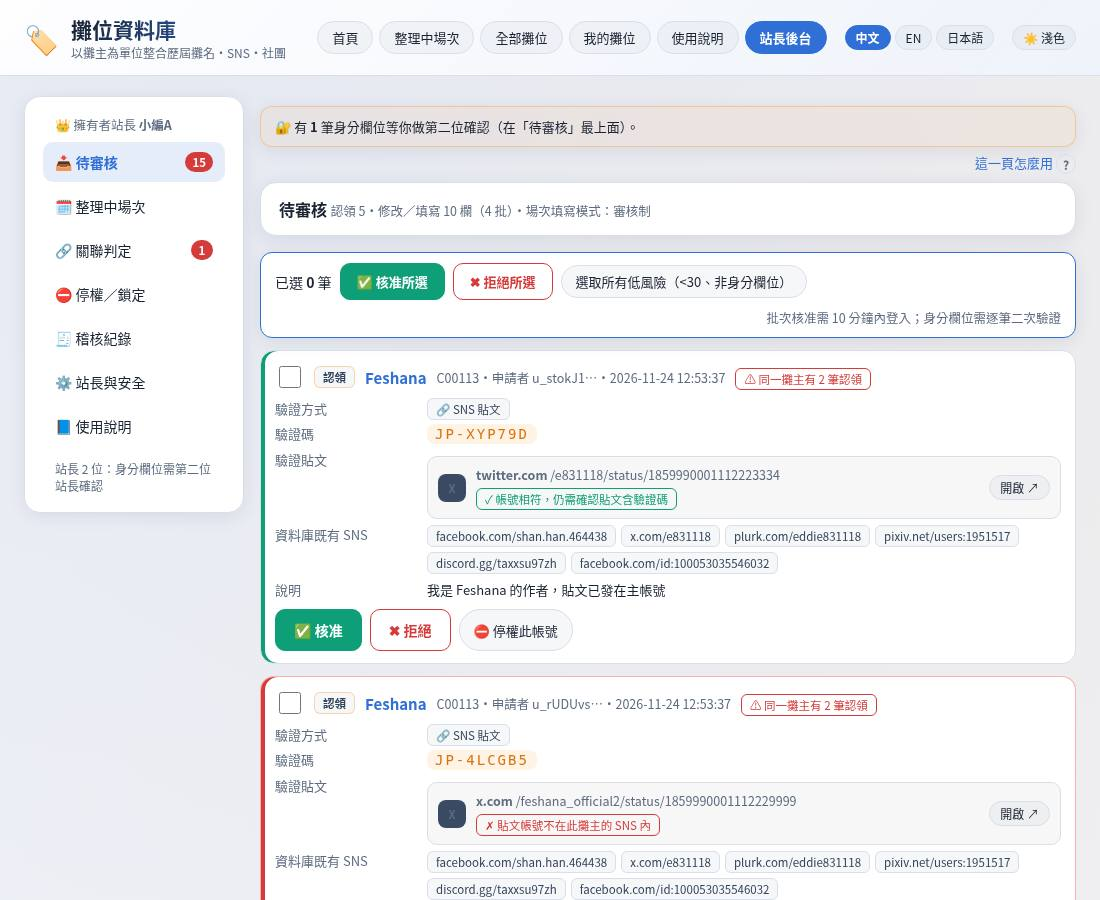
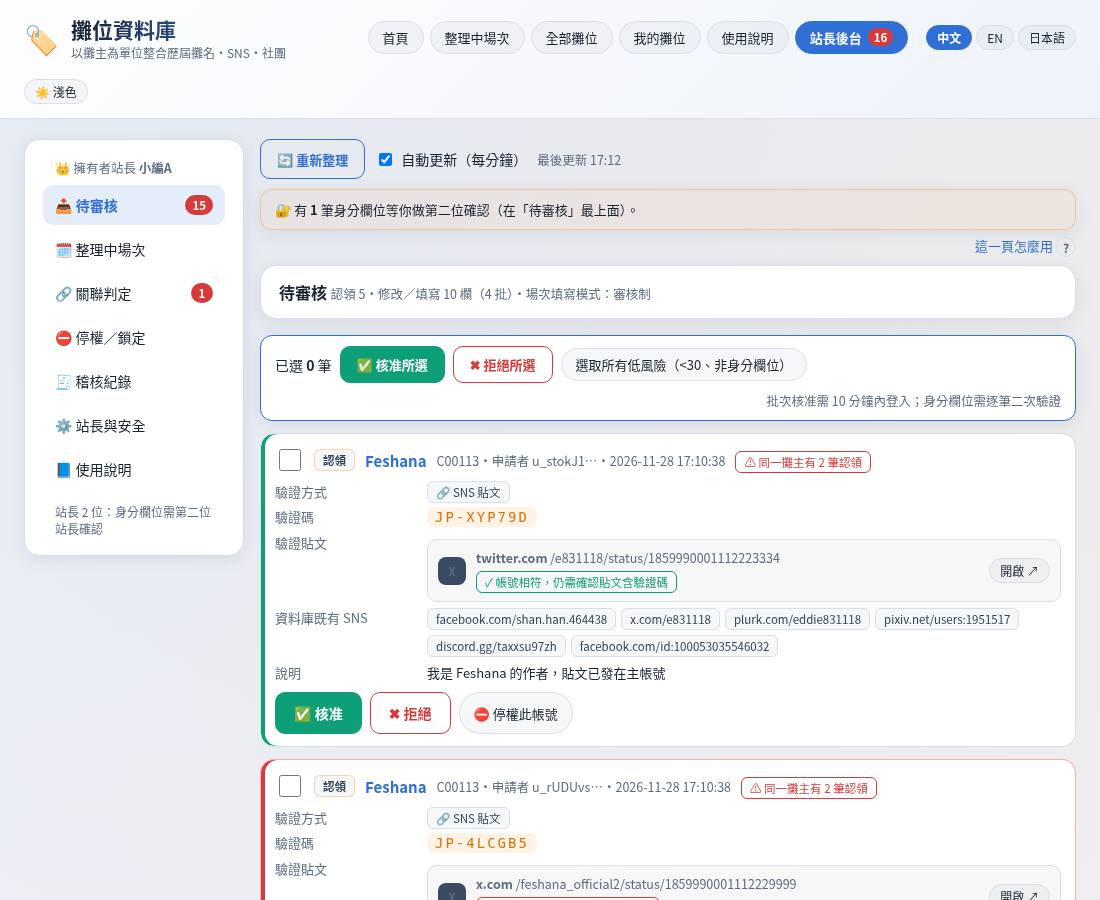
p7: 更新使用說明（待審核數字／重新整理／自動更新、隱藏舊攤名、作品類型與年齡分級可複選）；後端仍為 p6 時後台與編輯可向下相容

diff --git a/site/assets/help.js b/site/assets/help.js
@@ -6,9 +6,10 @@ window.HELP = {
       { id: 'search', t: '找到你的攤位', img: 'zh-search', s: ['打開首頁。', '在上方搜尋框輸入攤名、筆名或 SNS 帳號。', '點結果卡片，就會打開攤主頁。'] },
       { id: 'claim', t: '認領攤位：拿驗證碼、選方式', img: 'zh-claim', s: ['按右上「我的攤位」，用 Google 登入。', '回到你的攤主頁，按「這是我 → 認領」。', '畫面會出現你的驗證碼（例：JP-AB12CD），可以按「複製」。', '選一種方式：① SNS 貼文：用攤位資料上的 SNS 帳號發文附上驗證碼，再貼上「那則貼文」的網址。② 私訊加帕利天藍怪預警中心的 FB 粉專或 LINE 官方帳號，傳驗證碼。③ 動漫同人展資訊組 Discord：選「社團攤主」身分 → 往下到「管理事務區」→ 進「攤位整理系統後台 攤主權限申請」頻道，提醒管理員並貼上驗證碼。', '按「送出申請」。'] },
       { id: 'contact', t: '送出後：聯繫加帕利主編', img: 'zh-claim-done', s: ['送出後畫面會顯示「已送出申請」和你的驗證碼。', '⚠ 特別提醒：按下申請後請盡速與加帕利主編聯繫，我們會盡快幫您進行查驗。', '用你選的方式（粉專、LINE 或 Discord）把驗證碼傳給我們。', '站長確認後，攤位就會出現在「我的攤位」。'] },
-      { id: 'edit', t: '修改我的攤位資料', img: 'zh-edit', s: ['到「我的攤位」，在你的攤位按「修改主資料」。', '只改你要改的格子。', '按「預覽變更」看一遍，再按「確認送出」。', '一般欄位可能馬上生效；換掉 SNS 主帳號、攤位名稱等身分資料，要等站長確認。'] },
+      { id: 'edit', t: '修改我的攤位資料', img: 'zh-edit', s: ['到「我的攤位」，在你的攤位按「修改主資料」。', '只改你要改的格子（攤名、筆名、SNS 等）。作品類型和年齡分級請到「整理中場次」按「填寫我的攤位」修改。', '按「預覽變更」看一遍，再按「確認送出」。', '一般欄位可能馬上生效；換掉 SNS 主帳號、攤位名稱等身分資料，要等站長確認。'] },
+      { id: 'names', t: '隱藏用過的攤名', img: 'zh-names', s: ['打開你的攤主頁。舊攤名預設會公開顯示。', '若不希望別人看到或搜到舊攤名，按「🙈 隱藏舊攤名」。立刻生效，不用等審核。', '隱藏後，訪客和搜尋都看不到舊攤名；你和站長還是看得到。目前使用的攤名不受影響。', '之後若要再公開，按「👁 公開舊攤名」即可。剛隱藏時，網站可能要等一下子才完全更新，最多大約一小時。'] },
       { id: 'thumb', t: '放攤位縮圖（Google 雲端連結）', img: 'zh-thumb', s: ['把圖片上傳到 Google 雲端硬碟。', '在圖片上按「共用」，把一般存取權改成「知道連結的任何人」。', '複製連結，貼到「縮圖」格。', '按「檢查是否公開」。看到 ✅ 才代表別人看得到。'] },
-      { id: 'sales', t: '填寫販售資訊', img: 'zh-sales', s: ['到「整理中場次」，找到你的攤位按「填寫我的攤位」。', '單品按「＋單品」：左邊填類別，右邊填內容。', '系統會自動寫成「💠類別【內容】」，例如「💠新刊【畫冊 Vol.2 NT$300】」。', '有套組時按「＋套組」：填套組名稱，再逐一加商品，系統自動編號成「💠套組名稱」「1. 商品名」「2. 商品名」。', '用「↑」「↓」調整順序、「×」刪除，確認下面的文字後按送出。'] },
+      { id: 'sales', t: '填寫販售資訊', img: 'zh-sales', s: ['到「整理中場次」，找到你的攤位按「填寫我的攤位」。', '同一張表裡，作品類型可同時點選「原創」「二創」，商品年齡分類可同時點選「一般」「R15」「R18」。', '「二創參考作品」只有選了「二創」才會出現；沒選就不會送出，你以前填過的內容會留著。', '單品按「＋單品」：左邊填類別，右邊填內容。', '系統會自動寫成「💠類別【內容】」，例如「💠新刊【畫冊 Vol.2 NT$300】」。', '有套組時按「＋套組」：填套組名稱，再逐一加商品，系統自動編號成「💠套組名稱」「1. 商品名」「2. 商品名」。', '用「↑」「↓」調整順序、「×」刪除，確認下面的文字後按送出。'] },
       { id: 'status', t: '查看審核狀態', img: 'zh-status', s: ['打開「我的攤位」。', '「待審核的認領」：還在等站長確認。點它可以再看一次驗證碼。', '「我管理的攤主」：已經通過，可以修改資料。', '送出修改後，畫面會告訴你幾項已生效、幾項在等審核。通過後攤主頁就會更新。'] }
     ],
     faq: [
@@ -17,6 +18,7 @@ window.HELP = {
       ['驗證貼文可以刪嗎？', '站長確認通過後就可以刪。'],
       ['沒有 SNS 帳號怎麼辦？', '選「私訊粉專或 LINE」或「Discord」，不需要貼文網址。'],
       ['為什麼我的修改還沒出現？', '可能在等站長審核，或網頁還沒更新。請稍等幾分鐘再重新整理。'],
+      ['剛隱藏舊攤名，別人還搜得到？', '剛隱藏時，網站可能要等一陣子才會完全更新。最多大約一小時後，別人就搜不到了。'],
       ['資料有錯但我不是攤主？', '在攤主頁按「回報關聯錯誤」，或私訊加帕利天藍怪預警中心粉專。']
     ]
   },
@@ -26,9 +28,10 @@ window.HELP = {
       { id: 'search', t: 'Find your booth', img: 'en-search', s: ['Open the home page.', 'Type a booth name, pen name or SNS account in the search box at the top.', 'Tap a result card to open the owner page.'] },
       { id: 'claim', t: 'Claim your booth: get a code, pick a method', img: 'en-claim', s: ['Tap "My booth" at the top and sign in with Google.', 'Go back to your owner page and tap "This is me → claim".', 'You will see your verification code (e.g. JP-AB12CD). Tap "Copy" to copy it.', 'Pick one method: ① SNS post — post the code from an SNS account listed on your booth, then paste the link to that post. ② Message the 加帕利天藍怪預警中心 (Japari Weather Bureau) Facebook page or LINE official account with the code. ③ 動漫同人展資訊組 (Doujin Event Info) Discord — pick the 「社團攤主」 (booth owner) role → scroll to 「管理事務區」 (admin area) → open the 「攤位整理系統後台 攤主權限申請」 channel, tell an admin and paste the code.', 'Tap "Submit request".'] },
       { id: 'contact', t: 'After you submit: contact the Japari editor', img: 'en-claim-done', s: ['The screen shows "Request sent" and your code.', '⚠ Important: please contact the 加帕利 (Japari) editor as soon as possible so we can verify you quickly.', 'Send us the code using the method you picked (Facebook, LINE or Discord).', 'Once an admin approves, the booth appears under "My booth".'] },
-      { id: 'edit', t: 'Edit my booth info', img: 'en-edit', s: ['Go to "My booth" and tap "Edit master data" on your booth.', 'Change only the boxes you need.', 'Tap "Preview changes", check it, then tap "Confirm & submit".', 'Normal fields may update right away. Changing your main SNS account or booth name waits for an admin.'] },
+      { id: 'edit', t: 'Edit my booth info', img: 'en-edit', s: ['Go to "My booth" and tap "Edit master data" on your booth.', 'Change only the boxes you need (booth name, pen name, SNS, and so on). To change work type or age rating, go to "Ongoing events" and tap "Fill in my booth".', 'Tap "Preview changes", check it, then tap "Confirm & submit".', 'Normal fields may update right away. Changing your main SNS account or booth name waits for an admin.'] },
+      { id: 'names', t: 'Hide past booth names', img: 'en-names', s: ['Open your owner page. Past booth names are public by default.', 'If you do not want others to see or search them, tap "🙈 Hide past names". It takes effect immediately — no review needed.', 'After that, visitors and search will not see the old names. You and the admins still can. Your current booth name stays visible.', 'To show them again, tap "👁 Show past names". Right after hiding, the site may take a little while to fully update — up to about an hour.'] },
       { id: 'thumb', t: 'Add a booth thumbnail (Google Drive link)', img: 'en-thumb', s: ['Upload the image to Google Drive.', 'Tap "Share" on the image and set General access to "Anyone with the link".', 'Copy the link and paste it into the "Thumbnail" box.', 'Tap "Check if public". Only ✅ means others can see it.'] },
-      { id: 'sales', t: 'Fill in sales info', img: 'en-sales', s: ['Go to "Ongoing events", find your booth and tap "Fill in my booth".', 'Single item: tap "＋ Single item", category on the left, details on the right.', 'It is saved as "💠Category【Details】", e.g. "💠新刊【Art book Vol.2 NT$300】".', 'For a set, tap "＋ Bundle": enter the bundle name, then add items; they are numbered automatically ("💠Bundle name", "1. Item", "2. Item").', 'Use ↑ ↓ to reorder and × to delete, check the text below, then submit.'] },
+      { id: 'sales', t: 'Fill in sales info', img: 'en-sales', s: ['Go to "Ongoing events", find your booth and tap "Fill in my booth".', 'On the same form, for 作品類型 tap Original and/or Fan work; for 商品年齡分類 tap All ages, R15 and/or R18. You can select more than one.', '「二創參考作品」only appears when Fan work is selected. If it is hidden, it is not submitted; anything already saved stays as it is.', 'Single item: tap "＋ Single item", category on the left, details on the right.', 'It is saved as "💠Category【Details】", e.g. "💠新刊【Art book Vol.2 NT$300】".', 'For a set, tap "＋ Bundle": enter the bundle name, then add items; they are numbered automatically ("💠Bundle name", "1. Item", "2. Item").', 'Use ↑ ↓ to reorder and × to delete, check the text below, then submit.'] },
       { id: 'status', t: 'Check review status', img: 'en-status', s: ['Open "My booth".', '"Pending claims": still waiting for an admin. Tap it to see your code again.', '"Owners I manage": approved — you can edit.', 'After you submit edits, the page tells you how many went live and how many wait for review. The owner page updates once approved.'] }
     ],
     faq: [
@@ -37,6 +40,7 @@ window.HELP = {
       ['Can I delete the verification post?', 'Yes, after an admin has approved your claim.'],
       ['I don\'t have an SNS account?', 'Choose "Facebook page / LINE" or "Discord" — no post link needed.'],
       ['Why don\'t I see my change yet?', 'It may be waiting for review, or the page has not refreshed. Wait a few minutes and reload.'],
+      ['I hid my old booth name, but people can still search it?', 'Right after you hide it, the site may take a little while to fully update. Within about an hour, others will not be able to search it.'],
       ['Something is wrong but I am not the owner?', 'Tap "Report wrong grouping" on the owner page, or message the 加帕利天藍怪預警中心 Facebook page.']
     ]
   },
@@ -46,9 +50,10 @@ window.HELP = {
       { id: 'search', t: '自分のブースを探す', img: 'ja-search', s: ['ホームを開きます。', '上の検索欄にサークル名・ペンネーム・SNS アカウントを入力します。', '結果のカードを押すと出展者ページが開きます。'] },
       { id: 'claim', t: 'ブースを申請：コードを受け取り、方法を選ぶ', img: 'ja-claim', s: ['上の「マイブース」から Google でログインします。', '自分の出展者ページに戻り、「自分です → 申請」を押します。', '確認コード（例：JP-AB12CD）が表示されます。「コピー」で写せます。', '方法を 1 つ選びます：① SNS 投稿：ブース情報にある SNS アカウントでコードを投稿し、その投稿の URL を貼る。② 加帕利天藍怪預警中心の Facebook ページか LINE 公式アカウントにコードを DM。③ 動漫同人展資訊組（同人イベント情報グループ）の Discord：「社團攤主」ロールを選ぶ →「管理事務區」までスクロール →「攤位整理系統後台 攤主權限申請」チャンネルで管理者に伝え、コードを貼る。', '「申請を送信」を押します。'] },
       { id: 'contact', t: '送信後：加帕利の編集担当に連絡', img: 'ja-claim-done', s: ['画面に「申請しました」と確認コードが表示されます。', '⚠ 申請後は、できるだけ早く加帕利（ジャパリ）の編集担当にご連絡ください。すぐに確認いたします。', '選んだ方法（Facebook・LINE・Discord）でコードを送ってください。', '管理者が承認すると、「マイブース」にブースが表示されます。'] },
-      { id: 'edit', t: 'ブース情報を修正する', img: 'ja-edit', s: ['「マイブース」で自分のブースの「マスターデータの編集」を押します。', '変えたい欄だけ書き換えます。', '「変更をプレビュー」で確認し、「確認して送信」を押します。', '一般の欄はすぐ反映されることがあります。メインの SNS アカウントやサークル名の変更は管理者の確認待ちになります。'] },
+      { id: 'edit', t: 'ブース情報を修正する', img: 'ja-edit', s: ['「マイブース」で自分のブースの「マスターデータの編集」を押します。', '変えたい欄だけ書き換えます（サークル名・ペンネーム・SNS など）。作品類型や年齢分類は「整理中のイベント」の「自分のブースを入力」から変更します。', '「変更をプレビュー」で確認し、「確認して送信」を押します。', '一般の欄はすぐ反映されることがあります。メインの SNS アカウントやサークル名の変更は管理者の確認待ちになります。'] },
+      { id: 'names', t: '過去のブース名を隠す', img: 'ja-names', s: ['自分の出展者ページを開きます。過去のブース名は、初期状態では公開されています。', '他の人に見せたくない、検索されたくないときは「🙈 過去のブース名を隠す」を押します。すぐに反映され、審査は不要です。', '隠したあと、一般の閲覧者や検索には表示されません。あなたと管理者は引き続き見られます。いま使っているブース名はそのままです。', '再び公開したいときは「👁 過去のブース名を公開」を押します。隠した直後は、サイトの表示が完全に更新されるまで少し時間がかかることがあります（最大およそ 1 時間）。'] },
       { id: 'thumb', t: 'サムネイルを登録する（Google ドライブのリンク）', img: 'ja-thumb', s: ['画像を Google ドライブにアップロードします。', '画像の「共有」で一般的なアクセスを「リンクを知っている全員」にします。', 'リンクをコピーして「サムネイル」欄に貼ります。', '「公開状態を確認」を押します。✅ が出れば他の人にも見えます。'] },
-      { id: 'sales', t: '頒布情報を入力する', img: 'ja-sales', s: ['「整理中のイベント」で自分のブースの「自分のブースを入力」を押します。', '単品は「＋ 単品」：左にカテゴリ、右に内容を書きます。', '「💠カテゴリ【内容】」の形で保存されます。例：「💠新刊【画集 Vol.2 NT$300】」。', 'セットは「＋ セット」：セット名を入れて商品を追加すると、自動で番号が付きます（「💠セット名」「1. 商品名」「2. 商品名」）。', '↑ ↓ で並べ替え、× で削除。下の文字を確認して送信します。'] },
+      { id: 'sales', t: '頒布情報を入力する', img: 'ja-sales', s: ['「整理中のイベント」で自分のブースの「自分のブースを入力」を押します。', '同じフォームで、「作品類型」は「オリジナル」「二次創作」を同時に選べます。「商品年齡分類」は「全年齢」「R15」「R18」を同時に選べます。', '「二創參考作品」は「二次創作」を選んだときだけ表示されます。表示されていないときは送信されず、以前書いた内容はそのまま残ります。', '単品は「＋ 単品」：左にカテゴリ、右に内容を書きます。', '「💠カテゴリ【内容】」の形で保存されます。例：「💠新刊【画集 Vol.2 NT$300】」。', 'セットは「＋ セット」：セット名を入れて商品を追加すると、自動で番号が付きます（「💠セット名」「1. 商品名」「2. 商品名」）。', '↑ ↓ で並べ替え、× で削除。下の文字を確認して送信します。'] },
       { id: 'status', t: '審査の状況を見る', img: 'ja-status', s: ['「マイブース」を開きます。', '「審査中の申請」：管理者の確認待ちです。押すとコードをもう一度見られます。', '「管理している出展者」：承認済みで、修正できます。', '修正を送ると、すぐ反映された数と審査待ちの数が表示されます。承認後に出展者ページが更新されます。'] }
     ],
     faq: [
@@ -57,6 +62,7 @@ window.HELP = {
       ['確認用の投稿は消してもいいですか？', '管理者が承認した後なら消して大丈夫です。'],
       ['SNS アカウントがありません', '「Facebook ページ／LINE」か「Discord」を選べば、投稿の URL は不要です。'],
       ['修正がまだ表示されません', '審査待ちか、ページがまだ更新されていない可能性があります。数分待ってから再読み込みしてください。'],
+      ['過去のブース名を隠したのに、まだ検索されます', '隠した直後は、サイトの表示が完全に更新されるまで少し時間がかかることがあります。およそ 1 時間以内には、他の人は検索できなくなります。'],
       ['出展者ではないけど情報が間違っています', '出展者ページの「関連の誤りを報告」を押すか、加帕利天藍怪預警中心の Facebook ページに連絡してください。']
     ]
   }
@@ -65,7 +71,7 @@ window.ADMIN_HELP = {
   title: '站長使用說明', intro: '每件事只要幾步。不確定時，先不要按，問擁有者站長。',
   tasks: [
     { id: 'pair', t: '新增站長（配對碼）', img: 'admin-pair', s: ['新站長在網站登入，到「我的攤位」按「取得站長配對碼」。', '把配對碼給試算表擁有者（10 分鐘內有效）。', '擁有者在試算表選單「🗂 攤位資料庫網站 › 👑 新增站長帳號」輸入配對碼。', '新站長重新整理網頁，就會看到「站長後台」。'] },
-    { id: 'queue', t: '審核待審核', img: 'admin-queue', s: ['打開「📥 待審核」。', '看每筆的舊值、新值和風險說明；連結先看預覽再點。', '販售資訊可能有套組（💠套組名稱，下面 1. 2. 編號商品），格式不對系統會先擋下。', '認領會標示驗證方式：🔗 SNS 貼文（打開貼文確認驗證碼）、💬 私訊粉專／LINE、🎮 Discord（到對應的訊息或頻道核對驗證碼）。', '沒問題按「✅ 核准」，有問題按「✖ 拒絕」並寫原因。', '可以勾選多筆一起處理（需 10 分鐘內登入）。'] },
+    { id: 'queue', t: '審核待審核', img: 'admin-queue', s: ['登入後，右上「站長後台」會顯示待審核數量，左邊各分頁也有數字，不用點進去才知道。', '後台上方可按「🔄 重新整理」，也可勾選「自動更新（每分鐘）」。離開這個分頁或把視窗縮小後會暫停。', '有新項目、而你正在勾選或填寫時，畫面不會自動換掉，會出現「🔔 有新的待審核項目」橫幅，點一下再更新。', '打開「📥 待審核」。', '看每筆的舊值、新值和風險說明；連結先看預覽再點。', '販售資訊可能有套組（💠套組名稱，下面 1. 2. 編號商品），格式不對系統會先擋下。', '認領會標示驗證方式：🔗 SNS 貼文（打開貼文確認驗證碼）、💬 私訊粉專／LINE、🎮 Discord（到對應的訊息或頻道核對驗證碼）。', '沒問題按「✅ 核准」，有問題按「✖ 拒絕」並寫原因。', '可以勾選多筆一起處理（需 10 分鐘內登入）。'] },
     { id: 'second', t: '第二位站長確認', img: 'admin-second', s: ['身分欄位（攤位名稱、SNS／網址欄位被換掉或清空）要兩位不同站長核准。', '第一位按「🔐 二次驗證（一審）」並寫確認方式，狀態變「待第二位確認」。', '另一位站長在待審核最上面按「🔐 第二位確認並套用」。', '只有 1 位站長時，擁有者站長要填理由才能覆核。'] },
     { id: 'relogin', t: '重新登入', img: 'admin-relogin', s: ['重要操作（批次核准、身分欄位、合併、匯入、停權）要在 10 分鐘內登入過。', '跳出 Google 登入視窗時，選你的站長帳號。', '登入完成後，剛剛的操作會自動再做一次。'] },
     { id: 'revert', t: '復原修改', img: 'admin-revert', s: ['打開「🧾 稽核紀錄」。', '找到要撤回的那筆，按「↩ 復原」（一整批的話按「↩ 整批復原」）。', '系統會把格子改回舊值，並留下紀錄。'] },
@@ -77,6 +83,9 @@ window.ADMIN_HELP = {
   faq: [
     ['兩位站長同時按同一筆會怎樣？', '只會套用一次，後按的人會看到「已由 X 處理」。'],
     ['按錯核准了？', '到「🧾 稽核紀錄」按「↩ 復原」。'],
+    ['按鈕上的數字是什麼？', '待審核和關聯判定加起來的數量。各分頁左邊也有各自的數字。'],
+    ['自動更新沒換畫面？', '正在勾選或填寫時不會自動換頁。看有沒有「🔔 有新的待審核項目」橫幅，點它或按「重新整理」即可。'],
+    ['攤主要隱藏舊攤名？', '攤主在自己的攤主頁就可以關，立刻生效、不用審核。你也可以在攤主頁代為開關，會記在稽核紀錄。'],
     ['網站後台被盜用怎麼辦？', '擁有者在指令碼屬性設 ADMIN_WEB_DISABLED=1，網站後台會全部停用。']
   ]
 };

diff --git a/tests/ui-p4-help.js b/tests/ui-p4-help.js
@@ -47,7 +47,13 @@ const sleep = ms => new Promise(r => setTimeout(r, ms));
     await snap(p, L + '-claim-done'); await p.close();
     p = await pg(`?theme=light&lang=${L}&devlogin=dev-owner-1#/me`, { wait: 1800 });
     await p.evaluate(() => { const b = [...document.querySelectorAll('#app button.btn')].find(x => !/ghost|warn/.test(x.className)); b && b.click(); });
-    await p.waitForSelector('#modal:not([hidden]) .frow', { timeout: 10000 }).catch(() => {}); await sleep(500); await snap(p, L + '-edit'); await p.close();
+    await p.waitForSelector('#modal:not([hidden]) .frow', { timeout: 10000 }).catch(() => {}); await sleep(500);
+    await snap(p, L + '-edit'); await p.close();
+    p = await pg(`?theme=light&lang=${L}&devlogin=dev-owner-1#/o/C00968`, { wait: 1800 });
+    await p.waitForSelector('.nvbox', { timeout: 10000 }).catch(() => {});
+    await p.evaluate(() => { const x = document.querySelector('.nvbox') || [...document.querySelectorAll('h3')].find(h => /攤名|booth name|ブース名/.test(h.textContent)); x && x.scrollIntoView({ block: 'center' }); });
+    await sleep(400); await snap(p, L + '-names');
+    ok(L + ' 攤主頁有隱藏舊攤名開關', await p.evaluate(() => !!document.querySelector('.nvbox'))); await p.close();
     p = await pg(`?theme=light&lang=${L}&devlogin=dev-owner-1#/events/FFK19`, { wait: 2500 });
     await p.evaluate(() => { const b = [...document.querySelectorAll('#app button, #app a')].find(x => x.dataset && x.dataset.mine) || [...document.querySelectorAll('#app .btn')].find(x => /✏|填寫我的|Fill in my|自分のブース/.test(x.textContent)); b && b.click(); });
     await p.waitForSelector('#modal:not([hidden]) .frow', { timeout: 10000 }).catch(() => {}); await sleep(500);
@@ -55,6 +61,7 @@ const sleep = ms => new Promise(r => setTimeout(r, ms));
     ok(L + ' 場次填寫有縮圖說明「?」', hasThumb); await sleep(300); await snap(p, L + '-thumb');
     const hasSales = await p.evaluate(() => { const x = [...document.querySelectorAll('#mbody .helpq')].find(a => /sales$/.test(a.getAttribute('href'))); if (x) x.parentNode.parentNode.scrollIntoView({ block: 'center' }); return !!x; });
     ok(L + ' 販售資訊有說明「?」', hasSales);
+    ok(L + ' 場次填寫有作品類型／年齡分級選項鈕', await p.evaluate(() => document.querySelectorAll('#modal .msel .chip').length >= 5));
     // 截圖示範一個套組（不送出）
     const BN = { zh: ['新刊套組', '畫冊 Vol.2', '壓克力立牌'], en: ['New book set', 'Art book Vol.2', 'Acrylic stand'], ja: ['新刊セット', '画集 Vol.2', 'アクリルスタンド'] }[L];
     await p.evaluate(BN => { const ed = document.querySelector('#modal .sales-ed').parentNode; const bt = ed.querySelectorAll('.acts button')[1]; bt.click();
@@ -66,7 +73,9 @@ const sleep = ms => new Promise(r => setTimeout(r, ms));
     p = await pg(`?theme=light&lang=${L}&devlogin=claimer-a#/me`, { wait: 1800 }); await snap(p, L + '-status'); await p.close();
     p = await pg(`?theme=dark&lang=${L}#/help/claim`, { w: 1100, h: 900, wait: 1200 });
     const ht = await p.evaluate(() => ({ n: document.querySelectorAll('.htask').length, img: document.querySelectorAll('.hshot').length, faq: document.querySelectorAll('details.faq').length, nav: !!document.querySelector('#nav a[href="#/help"]') }));
-    ok(L + ' 使用說明頁：7 個任務、7 張截圖、常見問題、導覽列連結', ht.n === 7 && ht.img === 7 && ht.faq >= 5 && ht.nav, JSON.stringify(ht));
+    const body = await p.$eval('#app', e => e.textContent);
+    ok(L + ' 使用說明頁：8 個任務、8 張截圖、常見問題、導覽列連結', ht.n === 8 && ht.img === 8 && ht.faq >= 6 && ht.nav, JSON.stringify(ht));
+    ok(L + ' 說明有複選與隱藏舊攤名', (L === 'zh' && /隱藏舊攤名/.test(body) && /原創/.test(body) && /二創參考作品/.test(body) && /自動更新/.test(body) === false) || (L === 'en' && /Hide past names/.test(body) && /Fan work/.test(body) && /二創參考作品/.test(body)) || (L === 'ja' && /過去のブース名を隠す/.test(body) && /二次創作/.test(body) && /二創參考作品/.test(body)), body.slice(0, 80));
     if (L === 'zh') await p.screenshot({ path: '/tmp/p4shots/help_zh_dark.png', fullPage: true }); await p.close();
   }
   // 2. 站長說明（中文）
@@ -87,12 +96,14 @@ const sleep = ms => new Promise(r => setTimeout(r, ms));
   await p.evaluate(() => { const x = [...document.querySelectorAll('#app .note')].find(n => /全部權限/.test(n.textContent)); x && x.scrollIntoView({ block: 'center' }); }); await sleep(300); await snap(p, 'admin-editors'); await p.close();
   p = await pg('?theme=light&lang=zh&devlogin=dev-admin#/admin/help/editors', { wait: 2500, h: 900 });
   const ah = await p.evaluate(() => ({ n: document.querySelectorAll('.htask').length, img: document.querySelectorAll('.hshot').length, faq: document.querySelectorAll('details.faq').length }));
-  ok('站長使用說明：9 個任務、9 張截圖、常見問題', ah.n === 9 && ah.img === 9 && ah.faq >= 3, JSON.stringify(ah));
+  const atxt = await p.$eval('#app', e => e.textContent);
+  ok('站長使用說明：9 個任務、9 張截圖、常見問題', ah.n === 9 && ah.img === 9 && ah.faq >= 5, JSON.stringify(ah));
+  ok('站長說明有待審核數字、重新整理、自動更新與橫幅', /待審核數量/.test(atxt) && /重新整理/.test(atxt) && /自動更新（每分鐘）/.test(atxt) && /有新的待審核項目/.test(atxt) && /隱藏舊攤名/.test(atxt), atxt.replace(/\s+/g,' ').slice(0,120));
   await p.screenshot({ path: '/tmp/p4shots/admin_help.png', fullPage: true }); await p.close();
   p = await pg('?theme=light&lang=zh&devlogin=dev-admin#/admin/queue', { wait: 2500 });
   const cl = await p.$eval('#app', e => e.textContent); ok('認領卡標示「帳號相符，仍需確認貼文含驗證碼」', /帳號相符，仍需確認貼文含驗證碼/.test(cl)); await p.close();
   // 圖片都在
   const imgs = await (await pg('?lang=zh#/help')).evaluate(async () => { const out = []; for (const i of document.querySelectorAll('.hshot')) { const r = await fetch(i.src); out.push(r.status); } return out; });
-  ok('攤主說明截圖都存在（7 張）', imgs.length === 7 && imgs.every(s => s === 200), imgs.join(','));
+  ok('攤主說明截圖都存在（8 張）', imgs.length === 8 && imgs.every(s => s === 200), imgs.join(','));
   await b.close(); console.log(res.join('\n')); if (errs.length) console.log('PAGE ERRORS:\n' + errs.join('\n'));
 })().catch(e => { console.error(e); console.log(res.join('\n')); process.exit(1); });

diff --git a/site/assets/app.js b/site/assets/app.js
@@ -322,6 +322,9 @@
   }
 
   /* ---------- 登入 ---------- */
+  function hasP7() { return !!((S.meta && S.meta.version && S.meta.version >= '2026-11-28-p7') || S.p7); }
+  function markP7(ok) { if (ok) S.p7 = true; else if (ok === false) S.p7 = false; }
+  function isLegacyErr(e) { return /unknown action|unknown admin action/.test((e && e.message) || ''); }
   /* ---------- 站長：後台按鈕數字（p7）：每 60 秒輪詢 admin.counts（頁面隱藏時暫停），只讀幾個狀態欄，很輕量 ---------- */
   var ADM_T = null;
   function admPaint() {
@@ -332,7 +335,8 @@
   function admPush(sum) { if (!sum || !sum.counts) return; S.adm = { counts: sum.counts, total: sum.total, needsMySecond: sum.needsMySecond, at: sum.at, fetchedAt: Date.now() }; admPaint(); }
   function admPoll() {
     if (!S.session || !S.me || !S.me.admin) return Promise.resolve();
-    return apiPost({ action: 'admin.counts' }).then(function (j) { admPush(j.data); window.dispatchEvent(new Event('bdb-adm')); }).catch(function (e) {
+    return apiPost({ action: 'admin.counts' }).then(function (j) { markP7(true); admPush(j.data); window.dispatchEvent(new Event('bdb-adm')); }).catch(function (e) {
+      if (isLegacyErr(e)) { markP7(false); if (ADM_T) { clearInterval(ADM_T); ADM_T = null; } admPaint(); return; }
       S.adm = Object.assign({ counts: {}, total: 0 }, S.adm || {}, { error: /^REAUTH/.test(e.message) ? 'reauth' : 'net' }); admPaint(); window.dispatchEvent(new Event('bdb-adm')); });
   }
   function admStart() { if (ADM_T) return; admPoll(); ADM_T = setInterval(function () { if (!document.hidden) admPoll(); }, 60000);
@@ -572,19 +576,27 @@
     return box;
   }
   /** 「使用過的攤名」開關（p7）：攤主自己切換立即生效、不需審核（只是改變誰看得到，不改資料）；站長也可代為切換（會記在站長操作紀錄）。 */
+  /** 後端還是舊版時改讀公開的 owner（沒有完整舊攤名也沒有隱藏開關資料）。 */
+  function loadOwnerFull(id) {
+    return apiPost({ action: 'ownerFull', ownerId: id }).then(function (j) { markP7(true); return j.data; }).catch(function (e) {
+      if (!isLegacyErr(e)) throw e; markP7(false); return apiGet({ action: 'owner', id: id });
+    });
+  }
   function nameVisBox(id, hiddenNow, byOwner) {
-    var T = byOwner ? t : tz, msg = h('span', { class: 'muted' }), btn = h('button', { class: 'btn ghost', type: 'button', text: hiddenNow ? T('names_show_btn') : T('names_hide_btn') });
+    var T = byOwner ? t : tz;
+    if (S.p7 === false || (S.meta && S.meta.version && !hasP7())) return h('div', { class: 'muted', style: 'font-size:12px;margin-top:8px' }, '🙈 ', T('names_need_backend'), ' ', helpQ('names', !byOwner));
+    var msg = h('span', { class: 'muted' }), btn = h('button', { class: 'btn ghost', type: 'button', text: hiddenNow ? T('names_show_btn') : T('names_hide_btn') });
     btn.addEventListener('click', function () {
       btn.disabled = true; var want = !hiddenNow;
       (byOwner ? apiPost({ action: 'nameVis', ownerId: id, hidden: want }) : adminCall({ action: 'admin.setNameVis', ownerId: id, hidden: want })).then(function () {
         toast(want ? T('names_hide_done') : T('names_show_done')); S.index = null; sessionStorage.removeItem('bdb_index'); OWNER_P = {};
         return apiGet({ action: 'index' }).then(function (d) { setIndex(d); storeIndex(d); }).catch(function () { }).then(function () { route(); });
-      }).catch(function (e) { btn.disabled = false; msg.textContent = e.message; });
+      }).catch(function (e) { btn.disabled = false; msg.textContent = isLegacyErr(e) ? T('names_need_backend') : e.message; });
     });
-    return h('div', { class: 'nvbox' }, h('div', { class: 'muted', style: 'font-size:12.5px' }, hiddenNow ? '🙈 ' + (byOwner ? T('names_hidden_mine') : '此攤主已隱藏舊攤名（公開頁看不到；站長可見）。') : '👁 ' + (byOwner ? T('names_shown_mine') : '此攤主的舊攤名目前公開。')), h('div', { class: 'acts', style: 'justify-content:flex-start;margin-top:6px' }, btn, msg));
+    return h('div', { class: 'nvbox' }, h('div', { class: 'muted', style: 'font-size:12.5px' }, hiddenNow ? '🙈 ' + (byOwner ? T('names_hidden_mine') : '此攤主已隱藏舊攤名（公開頁看不到；站長可見）。') : '👁 ' + (byOwner ? T('names_shown_mine') : '此攤主的舊攤名目前公開。')), h('div', { class: 'acts', style: 'justify-content:flex-start;margin-top:6px' }, btn, helpQ('names', !byOwner), msg));
   }
   function editFlow(id) {
-    apiPost({ action: 'ownerFull', ownerId: id }).then(function (j) { return j.data; }).then(function (d) {
+    loadOwnerFull(id).then(function (d) {
       var rows = d.dbRows.slice(), isNew = !rows.length;
       // 只有出展紀錄、主資料庫還沒有列的攤主：以最近一屆攤名建立「新列」表單，核准後伺服器才新增資料列
       if (isNew) { var last = d.history.length ? d.history[d.history.length - 1].name : ''; rows = [{ row: 0, fields: { '攤位名稱': last } }]; }
@@ -609,7 +621,7 @@
   function adminCall(body) { return apiPost(body).catch(function (e) { if (/^REAUTH:/.test(e.message)) return reauth(e.message.replace(/^REAUTH:/, '')).then(function () { return apiPost(body); }); throw e; }); }
   function adminNote() { return h('div', { class: 'note admx', text: '🛠 站長直接修改：一般欄位按下確認後立即寫入（不進審核佇列），驗證規則與攤主相同；每一格都記錄在「站長操作紀錄」，可在後台稽核紀錄復原。身分欄位在有 2 位以上站長時會進入「待第二位確認」。' }); }
   function adminEditFlow(id) {
-    adminCall({ action: 'ownerFull', ownerId: id }).then(function (j) { return j.data; }).then(function (d) {
+    loadOwnerFull(id).then(function (d) {
       var rows = d.dbRows.slice(), isNew = !rows.length;
       if (isNew) { var last = d.history.length ? d.history[d.history.length - 1].name : ''; rows = [{ row: 0, fields: { '攤位名稱': last } }]; }
       var sel = h('select', { class: 'in' }, rows.map(function (r, i) { return h('option', { value: i, text: (r.fields['攤位名稱'] || ('#' + r.row)) + (r.row ? '（第 ' + r.row + ' 列）' : '（新列）') }); })), holder = h('div');

diff --git a/site/assets/i18n.js b/site/assets/i18n.js
@@ -9,7 +9,7 @@ window.I18N = {
     renamed_title: '曾改名的攤主', active_title: '整理中場次', go_fill: '前往填寫',
     aka: '也用過', events_n: '{n} 個場次', last_seen: '最近出展', type: '類型',
     opt_orig: '原創', opt_fan: '二創', opt_all: '一般', opt_r15: 'R15', opt_r18: 'R18', multi_hint: '可複選',
-    names_hidden_pub: '攤主選擇不公開舊攤名', names_hidden_mine: '你的舊攤名目前隱藏中：一般訪客和搜尋都看不到，只有你和站長看得到。', names_shown_mine: '你的舊攤名目前公開顯示。如果不想公開，可以隨時隱藏（立即生效，不需審核）。', names_hide_btn: '🙈 隱藏舊攤名', names_show_btn: '👁 公開舊攤名', names_hide_done: '已隱藏舊攤名', names_show_done: '已公開舊攤名',
+    names_hidden_pub: '攤主選擇不公開舊攤名', names_hidden_mine: '你的舊攤名目前隱藏中：一般訪客和搜尋都看不到，只有你和站長看得到。', names_shown_mine: '你的舊攤名目前公開顯示。如果不想公開，可以隨時隱藏（立即生效，不需審核）。', names_hide_btn: '🙈 隱藏舊攤名', names_show_btn: '👁 公開舊攤名', names_hide_done: '已隱藏舊攤名', names_show_done: '已公開舊攤名', names_need_backend: '這個功能要等站長更新後端後才能使用。',
     loading: '載入中…', load_fail: '資料載入失敗，請稍後再試', retry: '重試', offline_demo: '目前顯示的是離線示範資料',
     detail_names: '用過的攤名', detail_sns: 'SNS／連結', detail_history: '出展紀錄', detail_graph: '關聯圖',
     h_event: '場次', h_date: '日期', h_name: '當屆攤名', h_booth: '攤位號', h_how: '對應方式', h_conf: '信心',
@@ -47,7 +47,7 @@ window.I18N = {
     renamed_title: 'Owners who renamed their booth', active_title: 'Ongoing events', go_fill: 'Fill in',
     aka: 'Also known as', events_n: '{n} events', last_seen: 'Last seen', type: 'Type',
     opt_orig: 'Original', opt_fan: 'Fan work', opt_all: 'All ages', opt_r15: 'R15', opt_r18: 'R18', multi_hint: 'Select all that apply',
-    names_hidden_pub: 'This owner has chosen not to show past booth names.', names_hidden_mine: 'Your past booth names are hidden: visitors and search cannot see them; only you and the admins can.', names_shown_mine: 'Your past booth names are public. You can hide them any time (takes effect immediately, no review needed).', names_hide_btn: '🙈 Hide past names', names_show_btn: '👁 Show past names', names_hide_done: 'Past names are now hidden', names_show_done: 'Past names are now public',
+    names_hidden_pub: 'This owner has chosen not to show past booth names.', names_hidden_mine: 'Your past booth names are hidden: visitors and search cannot see them; only you and the admins can.', names_shown_mine: 'Your past booth names are public. You can hide them any time (takes effect immediately, no review needed).', names_hide_btn: '🙈 Hide past names', names_show_btn: '👁 Show past names', names_hide_done: 'Past names are now hidden', names_show_done: 'Past names are now public', names_need_backend: 'This needs the site backend to be updated first.',
     loading: 'Loading…', load_fail: 'Could not load data. Please try again later.', retry: 'Retry', offline_demo: 'Showing offline demo data',
     detail_names: 'Booth names used', detail_sns: 'SNS / links', detail_history: 'Exhibition history', detail_graph: 'Relationship graph',
     h_event: 'Event', h_date: 'Date', h_name: 'Booth name', h_booth: 'Booth no.', h_how: 'Match method', h_conf: 'Confidence',
@@ -85,7 +85,7 @@ window.I18N = {
     renamed_title: 'サークル名を変えた出展者', active_title: '整理中のイベント', go_fill: '入力する',
     aka: '別名', events_n: '{n} イベント', last_seen: '最終出展', type: '種別',
     opt_orig: 'オリジナル', opt_fan: '二次創作', opt_all: '全年齢', opt_r15: 'R15', opt_r18: 'R18', multi_hint: '複数選択できます',
-    names_hidden_pub: 'この出展者は過去のブース名を非公開にしています。', names_hidden_mine: '過去のブース名は非公開です。一般の閲覧者や検索には表示されず、あなたと管理者だけが見られます。', names_shown_mine: '過去のブース名は公開されています。いつでも非公開にできます（すぐに反映され、審査は不要です）。', names_hide_btn: '🙈 過去のブース名を隠す', names_show_btn: '👁 過去のブース名を公開', names_hide_done: '過去のブース名を非公開にしました', names_show_done: '過去のブース名を公開しました',
+    names_hidden_pub: 'この出展者は過去のブース名を非公開にしています。', names_hidden_mine: '過去のブース名は非公開です。一般の閲覧者や検索には表示されず、あなたと管理者だけが見られます。', names_shown_mine: '過去のブース名は公開されています。いつでも非公開にできます（すぐに反映され、審査は不要です）。', names_hide_btn: '🙈 過去のブース名を隠す', names_show_btn: '👁 過去のブース名を公開', names_hide_done: '過去のブース名を非公開にしました', names_show_done: '過去のブース名を公開しました', names_need_backend: 'この機能は、管理者側の更新が終わってから使えます。',
     loading: '読み込み中…', load_fail: 'データを読み込めませんでした。しばらくしてから再度お試しください。', retry: '再試行', offline_demo: 'オフラインのデモデータを表示中',
     detail_names: '使用したサークル名', detail_sns: 'SNS／リンク', detail_history: '出展履歴', detail_graph: '関係図',
     h_event: 'イベント', h_date: '日付', h_name: '当時のサークル名', h_booth: 'スペース', h_how: '照合方法', h_conf: '信頼度',

diff --git a/site/assets/admin.js b/site/assets/admin.js
@@ -50,10 +50,20 @@ window.viewAdmin = function (C, parts) {
   }
   if (window.__admL) window.removeEventListener('bdb-adm', window.__admL); window.__admL = onAdm; window.addEventListener('bdb-adm', onAdm);
 
-  call({ action: 'admin.home', tab: ACT[tab] ? tab : '', fresh: FRESH }).then(function (res) {
+  function loadHome() {
+    return call({ action: 'admin.home', tab: ACT[tab] ? tab : '', fresh: FRESH }).catch(function (e) {
+      if (!/unknown admin action/.test(e.message)) throw e;
+      return call({ action: 'admin.summary' }).then(function (sum) {
+        var p = ACT[tab] ? call({ action: ACT[tab], fresh: FRESH }) : Promise.resolve(null);
+        return p.then(function (tabData) { return { summary: sum, tabKey: ACT[tab] ? tab : '', tabData: tabData, legacy: true }; });
+      });
+    });
+  }
+  loadHome().then(function (res) {
     var sum = res.summary; if (res.tabKey) PRE[res.tabKey] = res.tabData;
     C.admPush(sum); shownSig = sig(sum); var ns = sideNode(sum); side.parentNode.replaceChild(ns, side); side = ns; paint(C.admState());
     ph.remove();
+    if (res.legacy) add(main, h('div', { class: 'card note warn', text: '後端還沒換成這個版本：右上數字和自動更新暫時無法使用，請先按「重新整理」。隱藏舊攤名也還不能用。請到試算表把後端更新後再重新整理這個網頁。' }));
     if (sum.needsMySecond) add(main, h('div', { class: 'card note warn' }, '🔐 有 ', h('b', { text: sum.needsMySecond }), ' 筆身分欄位等你做第二位確認（在「待審核」最上面）。'));
     var HID = { queue: 'queue', events: 'event', relations: 'merge', owners: 'suspend', audit: 'revert', settings: 'editors' }[tab];
     if (HID) add(main, h('div', { class: 'muted', style: 'text-align:right;margin:-4px 0 8px;font-size:13px' }, h('a', { href: '#/admin/help/' + HID, text: '這一頁怎麼用' }), ' ', window.BOOTH_HELP.q(HID, true)));
